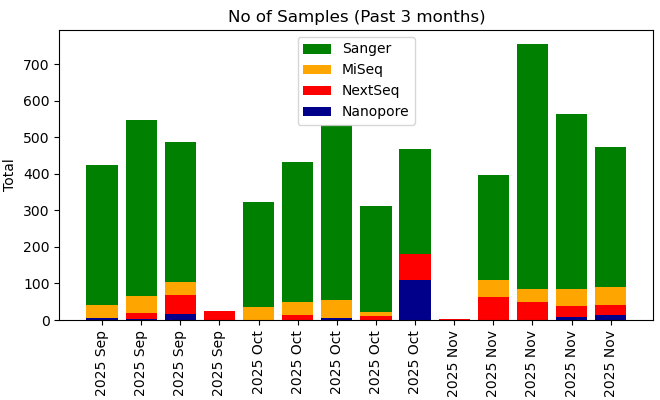
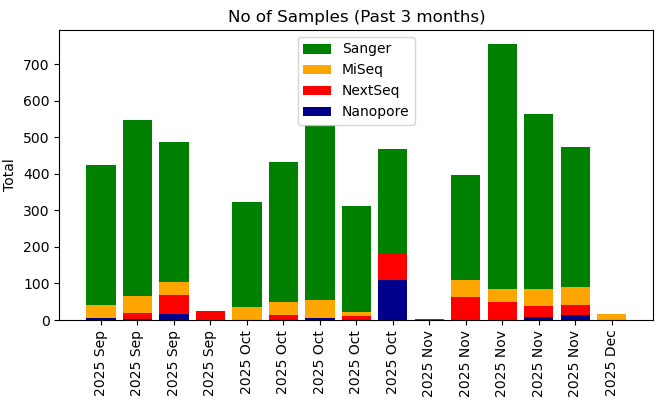
Your commit message here

Changed region(s): [[0.1212, 0.09, 0.9697, 0.99]]

diff --git a/krona/cgs.html b/krona/cgs.html
@@ -52,8 +52,8 @@ body {
   flex-direction: column;
 }
 </style>
-<H1>Genomics Facility Status: 07:00:09, 02/12/2025</H1>
-<marquee behavior="scroll" scrollamount="20" direction="left" bgcolor="lightgrey">CCATACCGCTGATTCTGCGTTTGCTGATGAACTAAGTCAACCTCCGCACTAACCTTGCGAGTCATTTCTTTGATTTGGTCATTGGTAAAATACTGACCAGCCGTTTGAGCTTGAGTAAGCATTTGGCGCATAATCTCGGAAACCTGCTGTTGCTTGGAAAGATTGGTGTTTTCCATAATAGACGCAACGCGAGCAGTAGACTCCTTCTGTTGATAAGCAAGCATCTCATTTTGTGCATATACCTGGTCTTT</marquee>
+<H1>Genomics Facility Status: 07:00:07, 03/12/2025</H1>
+<marquee behavior="scroll" scrollamount="20" direction="left" bgcolor="lightgrey">CCAGTTGCATTTTAGTAAGCTCTTTTTGATTCTCAAATCCGGCGTCCACCATACCAGCAGAGGAAGCATCAGCACCAGCACGCTCCCAAGCATTAAGCTCAGGAAATGCAGCAGCAAGATAATCACGAGTATCCTTTCCTTTATCAGCGGCAGACTTGCCACCAAGTCCAACCAAATCAAGCAACTTATCAGAAACGGCAGAAGTGCCAGCCTGCAACGTACCTTCAAGAAGTCCTTTACCAGCTTTAGCC</marquee>
 <TABLE BORDER=0><TR><TD><TABLE class="styled-table"><H3>GigaBases Sequenced</H3>
-<TR><TD><b>Platform</b></TD><TD><b>Week</b></TD><TD><b>Month</b></TD><TD><b>Year</b></TD><TD><b>Total</b></TD></TR><TR><TD>Illumina MiSeq</TD><TD>8.97</TD><TD>48.59</TD><TD>362.44</TD><TD>379.34</TD></TR><TR><TD>Illumina NextSeq</TD><TD>68.85</TD><TD>542.18</TD><TD>5512.43</TD><TD>5648.87</TD></TR><TR><TD>Nanopore PromethION</TD><TD>458.33</TD><TD>826.55</TD><TD>6620.22</TD><TD>9343.07</TD></TR><TR><TD>Sanger</TD><TD>0.0</TD><TD>0.0</TD><TD>0.02</TD><TD>0.04</TD></TR></TABLE></TD><TD><IMG SRC="fig1.png"><IMG SRC="fig2.png"></TD></TR><TR><TD><H3>No. Samples (No. Experiments)</H3>
-<TABLE class="styled-table"><TR><TD><b>Platform</b></TD><TD><b>Week</b></TD><TD><b>Month</b></TD><TD><b>Year</b></TD><TD><b>Total</b></TD></TR><TR><TD>Illumina MiSeq</TD><TD>48 (2)</TD><TD>177 (9)</TD><TD>1624 (63)</TD><TD>1704 (66)</TD></TR><TR><TD>Illumina NextSeq</TD><TD>27 (1)</TD><TD>172 (9)</TD><TD>1683 (68)</TD><TD>1720 (70)</TD></TR><TR><TD>Nanopore PromethION</TD><TD>14 (14)</TD><TD>25 (23)</TD><TD>469 (166)</TD><TD>775 (254)</TD></TR><TR><TD>Sanger</TD><TD>384 (384)</TD><TD>1824 (1824)</TD><TD>21502 (21502)</TD><TD>34919 (34919)</TD></TR></TABLE></TD><TD><IMG SRC="fig4.png"></TD></TR></TABLE></HTML>
+<TR><TD><b>Platform</b></TD><TD><b>Week</b></TD><TD><b>Month</b></TD><TD><b>Year</b></TD><TD><b>Total</b></TD></TR><TR><TD>Illumina MiSeq</TD><TD>10.27</TD><TD>49.9</TD><TD>363.74</TD><TD>380.64</TD></TR><TR><TD>Illumina NextSeq</TD><TD>68.85</TD><TD>541.22</TD><TD>5512.43</TD><TD>5648.87</TD></TR><TR><TD>Nanopore PromethION</TD><TD>310.49</TD><TD>818.54</TD><TD>6620.22</TD><TD>9343.07</TD></TR><TR><TD>Sanger</TD><TD>0.0</TD><TD>0.0</TD><TD>0.02</TD><TD>0.04</TD></TR></TABLE></TD><TD><IMG SRC="fig1.png"><IMG SRC="fig2.png"></TD></TR><TR><TD><H3>No. Samples (No. Experiments)</H3>
+<TABLE class="styled-table"><TR><TD><b>Platform</b></TD><TD><b>Week</b></TD><TD><b>Month</b></TD><TD><b>Year</b></TD><TD><b>Total</b></TD></TR><TR><TD>Illumina MiSeq</TD><TD>64 (3)</TD><TD>193 (9)</TD><TD>1640 (64)</TD><TD>1720 (67)</TD></TR><TR><TD>Illumina NextSeq</TD><TD>27 (1)</TD><TD>168 (8)</TD><TD>1683 (68)</TD><TD>1720 (70)</TD></TR><TR><TD>Nanopore PromethION</TD><TD>12 (12)</TD><TD>23 (21)</TD><TD>469 (166)</TD><TD>775 (254)</TD></TR><TR><TD>Sanger</TD><TD>288 (288)</TD><TD>1824 (1824)</TD><TD>21502 (21502)</TD><TD>34919 (34919)</TD></TR></TABLE></TD><TD><IMG SRC="fig4.png"></TD></TR></TABLE></HTML>
